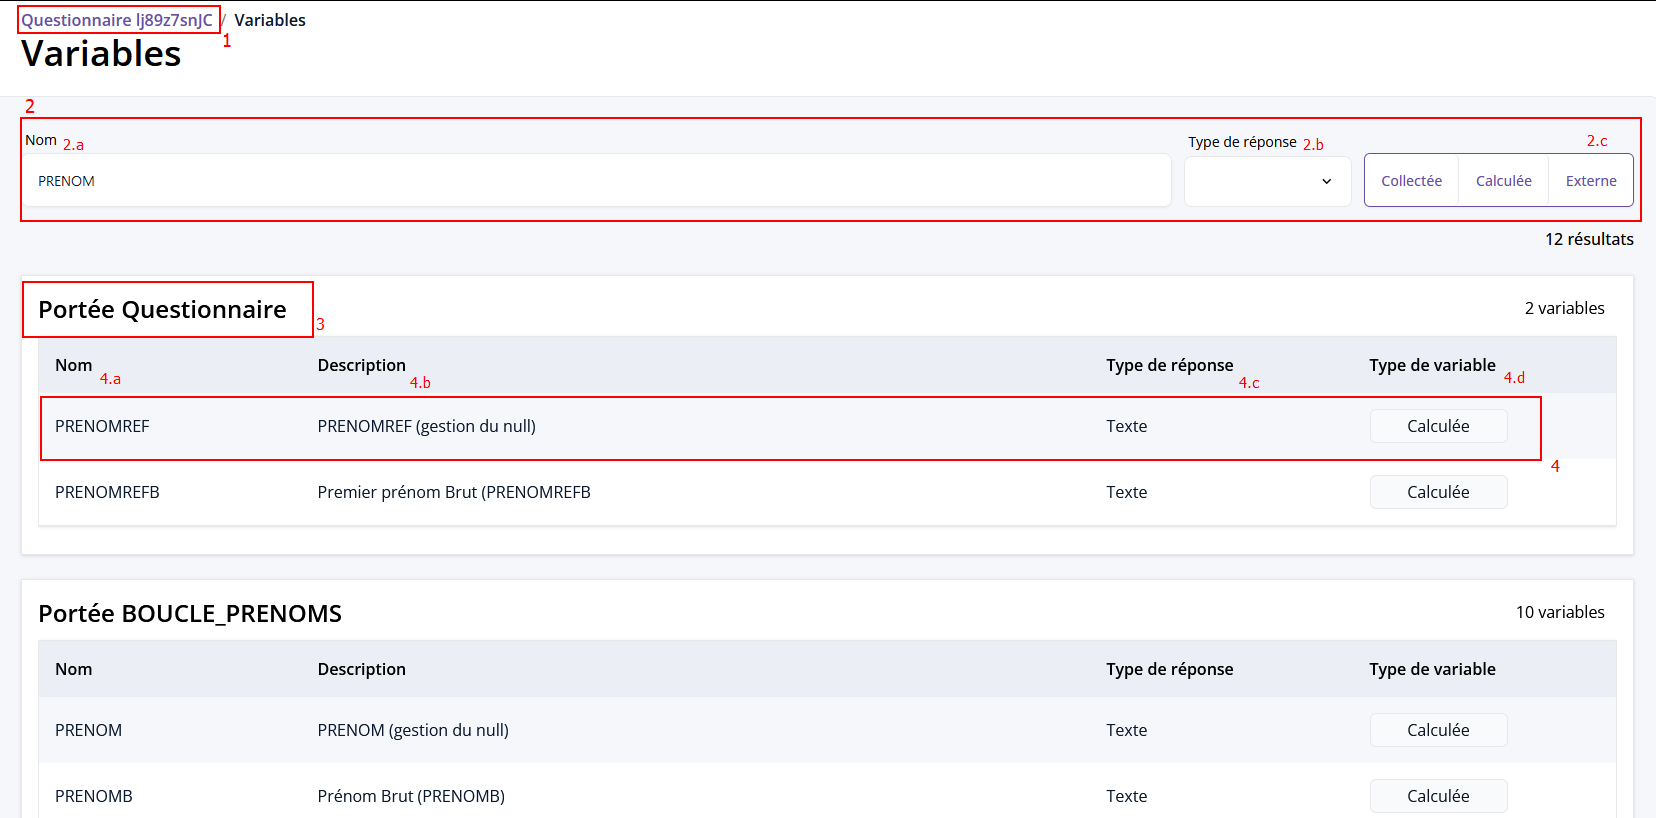
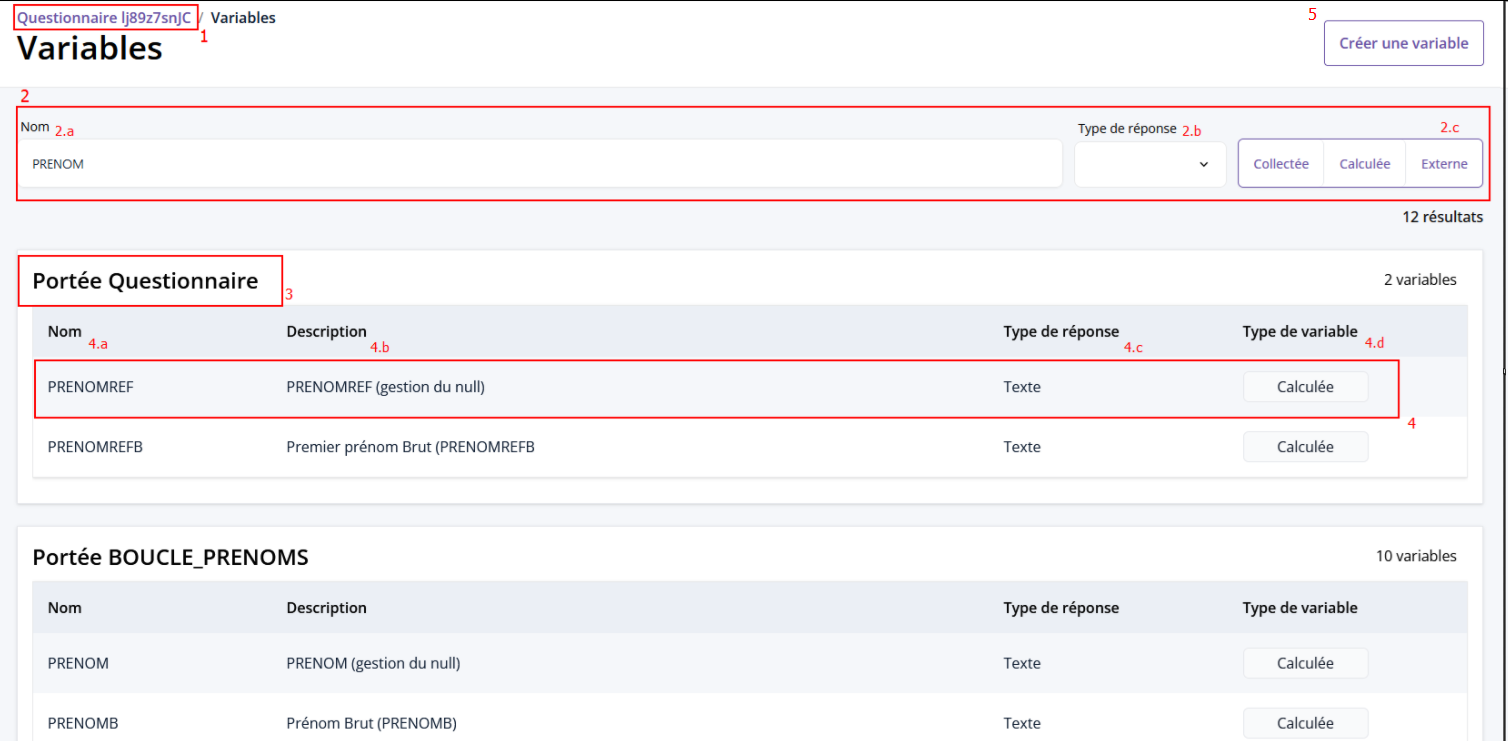
Add new var ext-calc creation page

diff --git a/bowiedocs/docs/1._Pogues/🚀_Guide/Personnalisation/2-guide-perso-echantillon.md b/bowiedocs/docs/1._Pogues/🚀_Guide/Personnalisation/2-guide-perso-echantillon.md
@@ -29,27 +29,15 @@ On peut remplir les données à partir de ce fichier schéma :
 
 ...![Variables externes données](../../../img/personnalisation/var-ext-data.png)
 
-## Point d'attention
+Puis charger avec le bouton "Charger les unités enquêtées", puis valider la création avec le bouton "Créer le questionnaire dans les orchestrateurs".
 
-!!!danger "Encadrer les données avec `""`"
+!!!note
+    Selon la taille du questionnaire cette création peut durer plusieurs minutes.
 
-    - Les valeurs d'en-tête et de lignes doivent être encadrées de `""`. Le fichier schéma téléchargé depuis Public Enemy contient bien ces double quotes pour les en-têtes.
-    - Si on utilise Libre Office Calc pour éditer ce fichier, on peut utiliser [**cette astuce**](https://help.libreoffice.org/latest/fr/text/scalc/guide/csv_files.html) pour s'assurer que les `""` sont bien toujours présentes après enregistrement
-    - Pour bien s'assurer que cette contrainte est respectée, on peut ouvrir le fichier de données que l'on constitue avec un éditeur de texte comme Notepad++.
+## Variables externes de portée Boucle ou Tableau dynamique
 
-    ???example "Exemple de fichier csv valide"
-        ```
-        "SIREN","ACTIVITE","SALARIE_PRENOM_1","SALARIE_PRENOM_2","SALARIE_PRENOM_3",
-        "120027016","BTP","Pierre","Géraldine",""
-        "987654321","COMMERCE","Solange","Ludovic","Camille"
-        ```
-
-!!! warning "Type des variables externes"
-    - Toutes les variables externes sont importées avec en tant que texte (= type `string`). **il faut donc bien penser à utiliser la fonction de [cast()](../../💻_VTL/fonctions-vtl.md/#cast) au besoin**  
-
-!!!warning "Maximum 10 UE"
-
-    - Un fichier de données ne pourra contenir qu'un maximum de 10 unités enquêtées.
+Pour les variables de portée "Boucle" ou les lignes de tableaux dynamiques, il faudra créer autant de variables suffixées par un index que l'on veut d'occurrences ou de lignes. 
+Par exemple, pour une variable externe `PRENOM`, on fournira un fichier contenant `PRENOM_1`, `PRENOM_2`, ..., `PRENOM_N`.
 
 !!!warning "Ordre des listes de plus de 10 éléments dans un tableau dynamique"
 
@@ -74,16 +62,27 @@ On peut remplir les données à partir de ce fichier schéma :
         ```
         ![alt text](../../../img/pogues/wrong_order_list_ext.png)
 
-!!!note "Variables de portée Boucle ou lignes de tableaux dynamiques"
+## Point d'attention
 
-    Pour les variables de portée "Boucle" ou les lignes de tableaux dynamiques, il faudra créer autant de variables suffixées par un index que l'on veut d'occurrences ou de lignes. 
-    Par exemple, pour une variable externe `PRENOM`, on fournira un fichier contenant `PRENOM_1`, `PRENOM_2`, ..., `PRENOM_N`.
+!!!danger "Encadrer les données avec `""`"
 
-Puis charger avec le bouton "Charger les unités enquêtées", puis valider la création avec le bouton "Créer le questionnaire dans les orchestrateurs".
+    - Les valeurs d'en-tête et de lignes doivent être encadrées de `""`. Le fichier schéma téléchargé depuis Public Enemy contient bien ces double quotes pour les en-têtes.
+    - Si on utilise Libre Office Calc pour éditer ce fichier, on peut utiliser [**cette astuce**](https://help.libreoffice.org/latest/fr/text/scalc/guide/csv_files.html) pour s'assurer que les `""` sont bien toujours présentes après enregistrement
+    - Pour bien s'assurer que cette contrainte est respectée, on peut ouvrir le fichier de données que l'on constitue avec un éditeur de texte comme Notepad++.
 
-!!!note
+    ???example "Exemple de fichier csv valide"
+        ```
+        "SIREN","ACTIVITE","SALARIE_PRENOM_1","SALARIE_PRENOM_2","SALARIE_PRENOM_3",
+        "120027016","BTP","Pierre","Géraldine",""
+        "987654321","COMMERCE","Solange","Ludovic","Camille"
+        ```
 
-    Selon la taille du questionnaire cette création peut durer plusieurs minutes.
+!!! warning "Type des variables externes"
+    - Toutes les variables externes sont importées avec en tant que texte (= type `string`). **il faut donc bien penser à utiliser la fonction de [cast()](../../💻_VTL/fonctions-vtl.md/#cast) au besoin**  
+
+!!!warning "Maximum 10 UE"
+
+    - Un fichier de données ne pourra contenir qu'un maximum de 10 unités enquêtées.
 
 ## Variables externes et pré-remplissage - JSON (New ✨)
 

diff --git a/bowiedocs/docs/1._Pogues/🚀_Guide/Variables/variables-externes.md b/bowiedocs/docs/1._Pogues/🚀_Guide/Variables/variables-externes.md
@@ -1,4 +1,5 @@
-# Les variables externes
+# Les variables externes ✨
+
 
 !!! question "Définition"
     Pogues permet de référencer dans le questionnaire des variables externes, c'est à dire des variables qui sont fournies au chargement du questionnaire lors de la collecte, en provenance d'un fichier de données produit à partir de données connues et attachées à l'unité enquêtée.
@@ -12,6 +13,26 @@
     cast($VAR_EXT$, integer)
     ```
 
+## Création d'une variable externe
+
+✨ Une variable externe se définit via le menu "Variables" puis en cliquant sur le bouton en haut à droite "Créer une variable". 
+
+!!! abstract "Nouvelle variable externe"
+    ![alt text](../../../img/pogues/var-creation-external.png)
+
+    1. `Type de variable*` : permets de changer entre la création d'une variable calculée et une variable externe
+    1. `Variable réinitialisable` :
+    1. `Identifiant*` : correspond au nom de la variable
+    1. `Libellé*` : description de la variable
+    1. `Niveau de calcul*` : défini la portée de la variable. Plus de détails [ici](https://user-juliencarmona-654711-0.user.lab.sspcloud.fr/proxy/8000/Bowie/1._Pogues/%F0%9F%9A%80_Guide/Variables/portee/)
+		
+		!!! note "Note"
+			Par défaut la valeur est `Questionnaire` si la variable vaut la même valeur sur l’ensemble du questionnaire. Si la variable est occurrentielle (cad, sa valeur dépend de la ligne sur laquelle on se trouve au sein d’un tableau dynamique ou de l’occurrence sur laquelle on se trouve au sein d’une boucle), renseigner ici l'élément itérable (identifiant du tableau dynamique ou boucle du questionnaire) auquel se réfère la variable.
+
+    1. `Type de réponse*` : parmi Texte, Date, Nombre, Booléen (cf. Création d'une question de type réponse simple)
+      > Suivant la valeur sélectionnée, d'autres champs associés au type apparaissent.
+      > Plus de détails sur les différents types [ici](../../🚀_Guide/Questions/13-reponse-simple.md)
+
 ## Ajouter des variables externes de portée Boucle
 
 Dans certains protocoles complexes, on peut vouloir intégrer des variables externes correspondant à des variables collectées précédemement dans un autre questionnaire à l'intérieur d'une boucle.
@@ -23,9 +44,9 @@ Afin de récupérer ces variables dans le second questionnaire :
 - je crée dans celui-ci la boucle `BOUCLE_PRINCIPALE`, avec un min et max dont la valeur est la variable `NBHAB` (à créer, voir ci-dessous),
 - je crée  les variables externes `NBHAB` (Portée Questionnaire), `PRENOM` et `AGE` (portée `BOUCLE_PRINCIPALE`).
 
-Il faudra ensuite fournir à l'intégration un fichier CSV contenant les variables et valeurs ad hoc (voir [ici](../Personnalisation/2-guide-perso-echantillon.md), section "Variables de portée Boucle")
+Il faudra ensuite fournir à l'intégration un fichier CSV contenant les variables et valeurs ad hoc (voir [ici](../Personnalisation/2-guide-perso-echantillon.md#variables-externes-de-portee-boucle-ou-tableau-dynamique), section "Variables de portée Boucle")
 
 !!! danger
-    Eviter de finir le nom d'une variable externe par une valeur numérique.
+    Éviter de finir le nom d'une variable externe par une valeur numérique.
     Une variable externe peut contenir un vecteur (par exemple : liste d'habitant issue de la base de sondages ou de la précédente enquête) et sera personnalisée en collecte avec un suffixe séquentiel.
     Par exemple : pour un vecteur de produits appelé PRODUITS, dans le fichier de personnalisation on pourra avoir PRODUITS_01, PRODUITS_02, etc

diff --git a/bowiedocs/docs/1._Pogues/🚀_Guide/Variables/variables-calculees.md b/bowiedocs/docs/1._Pogues/🚀_Guide/Variables/variables-calculees.md
@@ -1,15 +1,24 @@
-# Les variables calculées
-
+# Les variables calculées ✨
 !!! question "Définition"
     Il peut être nécessaire de calculer des variables à partir d'autres variables du questionnaire pour certains contrôles notamment.
 
 ## Création d'une variable calculée
 
-Une variable calculée se définit via l'onglet "Variables calculées" de n'importe quelle question du questionnaire. Il faut renseigner les paramètres suivant :
+✨ Une variable calculée se définit via le menu "Variables" puis en cliquant sur le bouton en haut à droite "Créer une variable". 
 
-  - _Libellé_
-  - _Identifiant_
-  - _Formule_ : possibilité d'utiliser des if, then, else if, else
-    - Exemple : somme des pourcentages du chiffre d'affaires dédiés à certaines activités ou nombre de majeurs d'un ménage
-  - _Type de réponse_ : parmi Texte, Date, Nombre, Booléen (cf. Création d'une question de type réponse simple)
-  - Portée : par défaut Questionnaire si la variable vaut la même valeur sur l’ensemble du questionnaire. Si la variable est occurrentielle (ie sa valeur dépend de la ligne sur laquelle on se trouve au sein d’un tableau dynamique ou de l’occurrence sur laquelle on se trouve au sein d’une boucle), renseigner ici l'élément itérable (tableau dynamique ou boucle du questionnaire) auquel se réfère la variable.
+!!! abstract "Nouvelle variable calculée"
+    ![alt text](../../../img/pogues/var-creation-calculated.png)
+
+    1. `Type de variable*` : permets de changer entre la création d'une variable calculée et une variable externe
+    1. `Identifiant*` : correspond au nom de la variable
+    1. `Libellé*` : description de la variable
+    1. `Formule*` : Éditeur VTL permettant de définir la formule VTL qui calcul la variable
+		- Exemples : Nombre total de personne dans le ménage interrogé ; somme des pourcentages du chiffre d'affaires dédiés à certaines activités ou nombre de majeurs d'un ménage
+    1. `Niveau de calcul*` : défini la portée de la variable. Plus de détails [ici](https://user-juliencarmona-654711-0.user.lab.sspcloud.fr/proxy/8000/Bowie/1._Pogues/%F0%9F%9A%80_Guide/Variables/portee/)
+		
+		!!! note "Note"
+			Par défaut la valeur est `Questionnaire` si la variable vaut la même valeur sur l’ensemble du questionnaire. Si la variable est occurrentielle (cad, sa valeur dépend de la ligne sur laquelle on se trouve au sein d’un tableau dynamique ou de l’occurrence sur laquelle on se trouve au sein d’une boucle), renseigner ici l'élément itérable (identifiant du tableau dynamique ou boucle du questionnaire) auquel se réfère la variable.
+
+    1. `Type de réponse*` : parmi Texte, Date, Nombre, Booléen (cf. Création d'une question de type réponse simple)
+      > Suivant la valeur sélectionnée, d'autres champs associés au type apparaissent.
+      > Plus de détails sur les différents types [ici](../../🚀_Guide/Questions/13-reponse-simple.md)

diff --git a/bowiedocs/docs/1._Pogues/💡_Tutoriel_(MAJ_en_cours)/index.md b/bowiedocs/docs/1._Pogues/💡_Tutoriel_(MAJ_en_cours)/index.md
@@ -1,8 +1,9 @@
 # Apprendre à utiliser Pogues
 
-Pogues est l'interface graphique permettant de créer des questionnaires. 
-Ce tutoriel décrit pas à pas la création d'un questionnaire pour aider les nouveaux utilisateurs de Pogues à se familiariser avec l'outil en implémentant les éléments les plus utilisés : séquences, questions, aides à l'enquêté, filtres, boucles... 
-L'objectif est de vous permettre de démarrer sereinement avec l'outil, pour les fonctionnalités plus sophistiquées, rendez-vous dans le [:octicons-rocket-16: guide](../🚀_Guide/index.md).
+!!! question "Intro"
+    Pogues est l'interface graphique permettant de créer des questionnaires.<br>
+    Ce tutoriel décrit pas à pas la création d'un questionnaire pour aider les nouveaux utilisateurs de Pogues à se familiariser avec l'outil en implémentant les éléments les plus utilisés : séquences, questions, aides à l'enquêté, filtres, boucles... <br>
+    L'objectif est de vous permettre de démarrer sereinement avec l'outil, pour les fonctionnalités plus sophistiquées, rendez-vous dans le [:octicons-rocket-16: guide](../🚀_Guide/index.md).
 
 !!! warning ":construction: Pogues évolue en continu pour mieux répondre aux besoins des utilisateurs ! Le tutoriel est en cours de mise à jour pour prendre en compte ces évolutions :construction:"
     Il est encore utilisable mais certaines fonctionnalités décrites ne sont plus à jour. <br>

diff --git a/bowiedocs/docs/1._Pogues/🚀_Guide/Tableaux/2-tableau-dynamique.md b/bowiedocs/docs/1._Pogues/🚀_Guide/Tableaux/2-tableau-dynamique.md
@@ -101,7 +101,7 @@ Dans l'onglet Contrôles, décrire classiquement le contrôle en VTL mais préci
 ![Contrôles par ligne](../../../img/pogues/controle-tab-dynamique.png)
 
 
-## ✨ Filtrer des cases
+## Filtrer des cases ✨
 
 !!! abstract "Objectif"
     Il est possible de filtrer des cases dans un tableau dynamique selon une formule VTL.
@@ -144,7 +144,7 @@ Le choix "Non" est sélectionné par défaut : aucune case de la colonne n'est f
     === "3 case cochés avec 1 case remplie"
         ![alt text](../../../img/pogues/dyn-tab-filter-cell-ex-5.png)
 
-## ✨ Cases en lecture seule
+## Cases en lecture seule ✨
 !!! abstract "Objectif"
     Le concepteur peut spécifier des règles qui mettent en lecture seule certaines cases d'un tableau dynamique. Cette fonctionnalité est utile par exemple lorsqu'on pré-remplit les données d'un tableau et qu'on ne souhaite pas laisser la possibilité à l'enquêté de modifier les valeurs.
 

diff --git a/bowiedocs/docs/1._Pogues/🚀_Guide/Variables/index.md b/bowiedocs/docs/1._Pogues/🚀_Guide/Variables/index.md
@@ -8,7 +8,7 @@
 - [**Globale**](variables-globales.md) : Variables fournies directement par le moteur de contrôle des questionnaires
 
 
-## Liste de Variables (New ✨)
+## Liste de Variables
 
 Un page listant toutes les variables du questionnaire est disponible via le menu "Variables".
 Elles sont accessible en lecture seule (pas d'édition pour l'instant) avec un classement par portée (niveau de calcul pour les boucles et les tableaux).
@@ -28,3 +28,4 @@ Elles sont accessible en lecture seule (pas d'édition pour l'instant) avec un c
         1. `Type de réponse`
         1. `Type de variable`
         > Si la variable est de type **Calculée**, alors on a la possibilité de voir la formule VTL associée au survol ou en cliquant sur le bouton.
+    5. `Créer une variable` : bouton redirigeant sur la page de création de variable **externe** ou **calculée**

diff --git a/bowiedocs/docs/1._Pogues/🚀_Guide/14-liste-codes.md b/bowiedocs/docs/1._Pogues/🚀_Guide/14-liste-codes.md
@@ -1,4 +1,4 @@
-# Spécifier une liste de codes
+# Les listes de codes
 
 ## Les listes de codes
 On accède aux différentes listes de codes via le bouton sur la gauche

diff --git a/bowiedocs/docs/1._Pogues/🚀_Guide/29-historique.md b/bowiedocs/docs/1._Pogues/🚀_Guide/29-historique.md
@@ -1,4 +1,4 @@
-# Historique de sauvegardes (New ✨)
+# Historique de sauvegardes
 
 ## Accéder à l'historique
 
